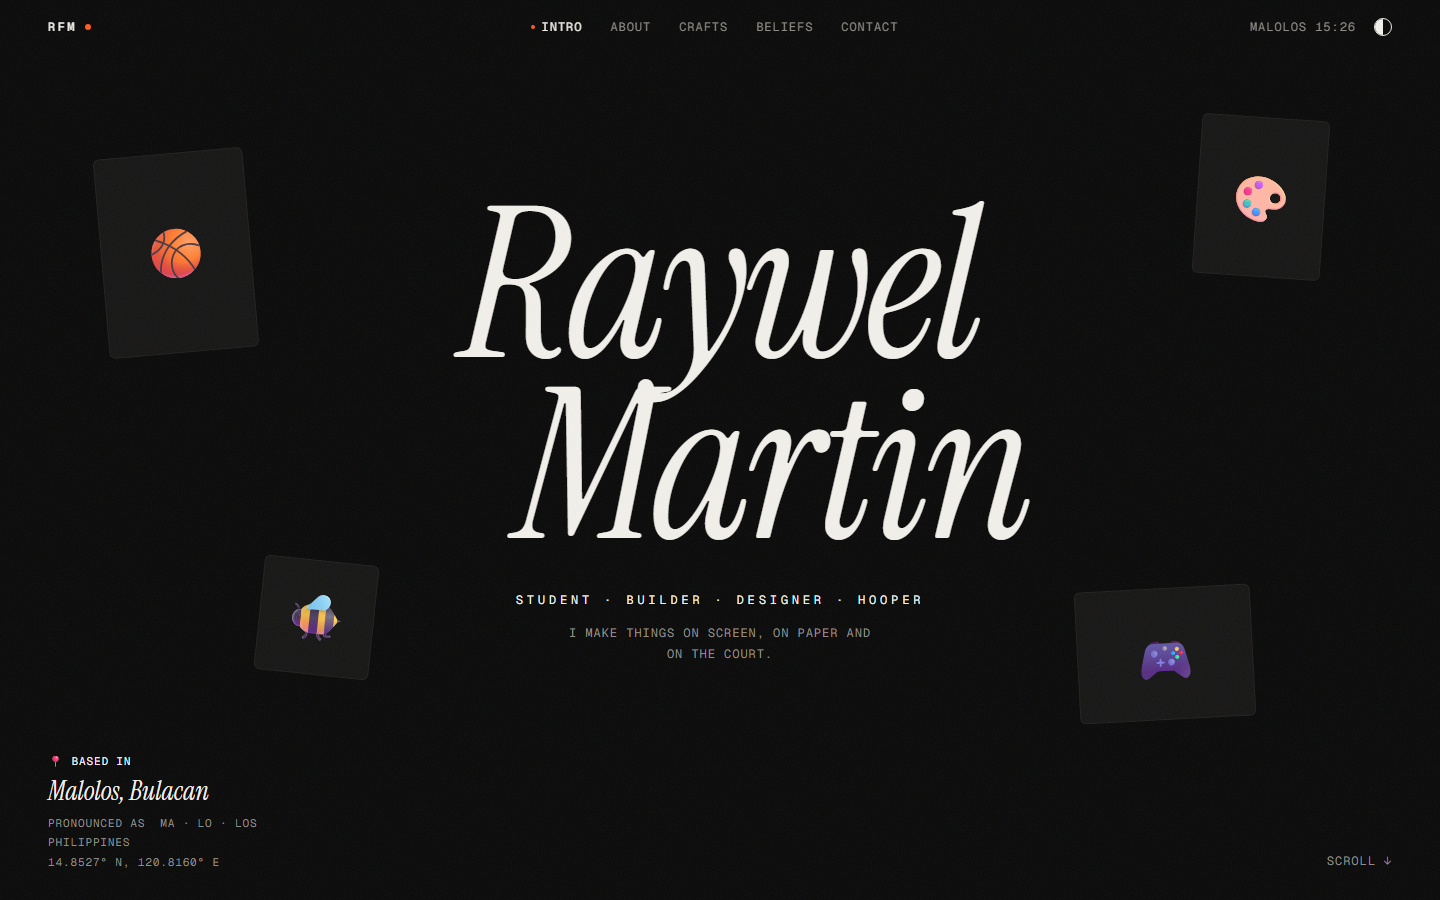
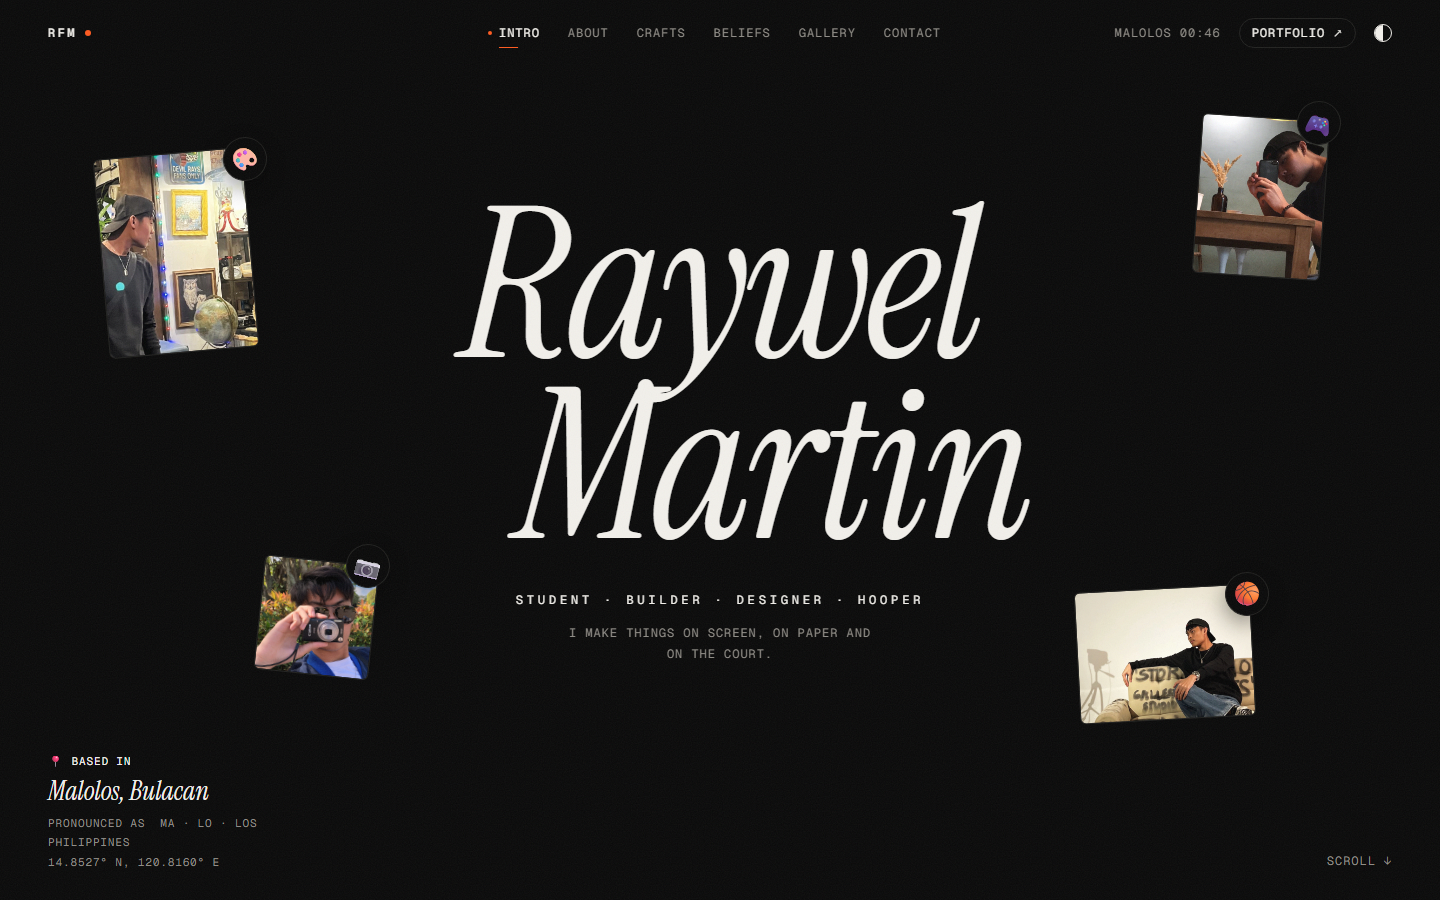
Refresh the Off the Clock card to match the current site
New screenshot with my photos in the hero cards, and the description now
covers the gallery, the story timeline and the YouTube and TikTok clips.
Two new bullets for how the photos are handled, and Valorant joins the
background line.

The screenshot URL gets ?v=2 so browsers don't keep showing the old one.

diff --git a/index.html b/index.html
@@ -729,8 +729,8 @@ footer {
 
             <div class="col-lg-6">
               <a href="https://matimbu.github.io/raywelfrancismartin/" target="_blank" rel="noopener" class="site-shot d-block">
-                <img src="images/personal-site.png"
-                     alt="Home screen of my personal site: my name in large serif type, surrounded by floating emoji cards">
+                <img src="images/personal-site.png?v=2"
+                     alt="Home screen of my personal site: my name in large serif type, surrounded by four photos of me">
               </a>
             </div>
 
@@ -746,9 +746,10 @@ footer {
 
               <p class="product-desc mt-3">
                 A personal site I made on my own time — the things I make,
-                what I do for fun, what I believe in, and where to find me.
-                Plain HTML, CSS and JavaScript, with Lenis for smooth
-                scrolling as the only library.
+                what I do for fun, what I believe in, and where to find me,
+                plus a photo gallery, a story timeline, and my YouTube and
+                TikTok clips. Plain HTML, CSS and JavaScript, with Lenis for
+                smooth scrolling.
               </p>
 
               <div class="row mt-3 text-start">
@@ -756,10 +757,12 @@ footer {
                   <ul class="product-desc">
                     <li>All text in one content file</li>
                     <li>Drafts hidden on the live site</li>
+                    <li>Photos resized, GPS data stripped</li>
                   </ul>
                 </div>
                 <div class="col-6">
                   <ul class="product-desc">
+                    <li>Full-size photos load on open</li>
                     <li>Light / dark theme, remembered</li>
                     <li>Respects reduced-motion settings</li>
                   </ul>
@@ -770,8 +773,8 @@ footer {
                 <p class="fw-bold mb-1">Project Background</p>
                 <p class="product-desc mb-0">
                   Started out of boredom, as a home for the side of me a
-                  developer portfolio doesn't cover — basketball, design,
-                  and the videos I make with friends.
+                  developer portfolio doesn't cover — basketball, Valorant,
+                  design, and the videos I make with friends.
                 </p>
               </div>
 
